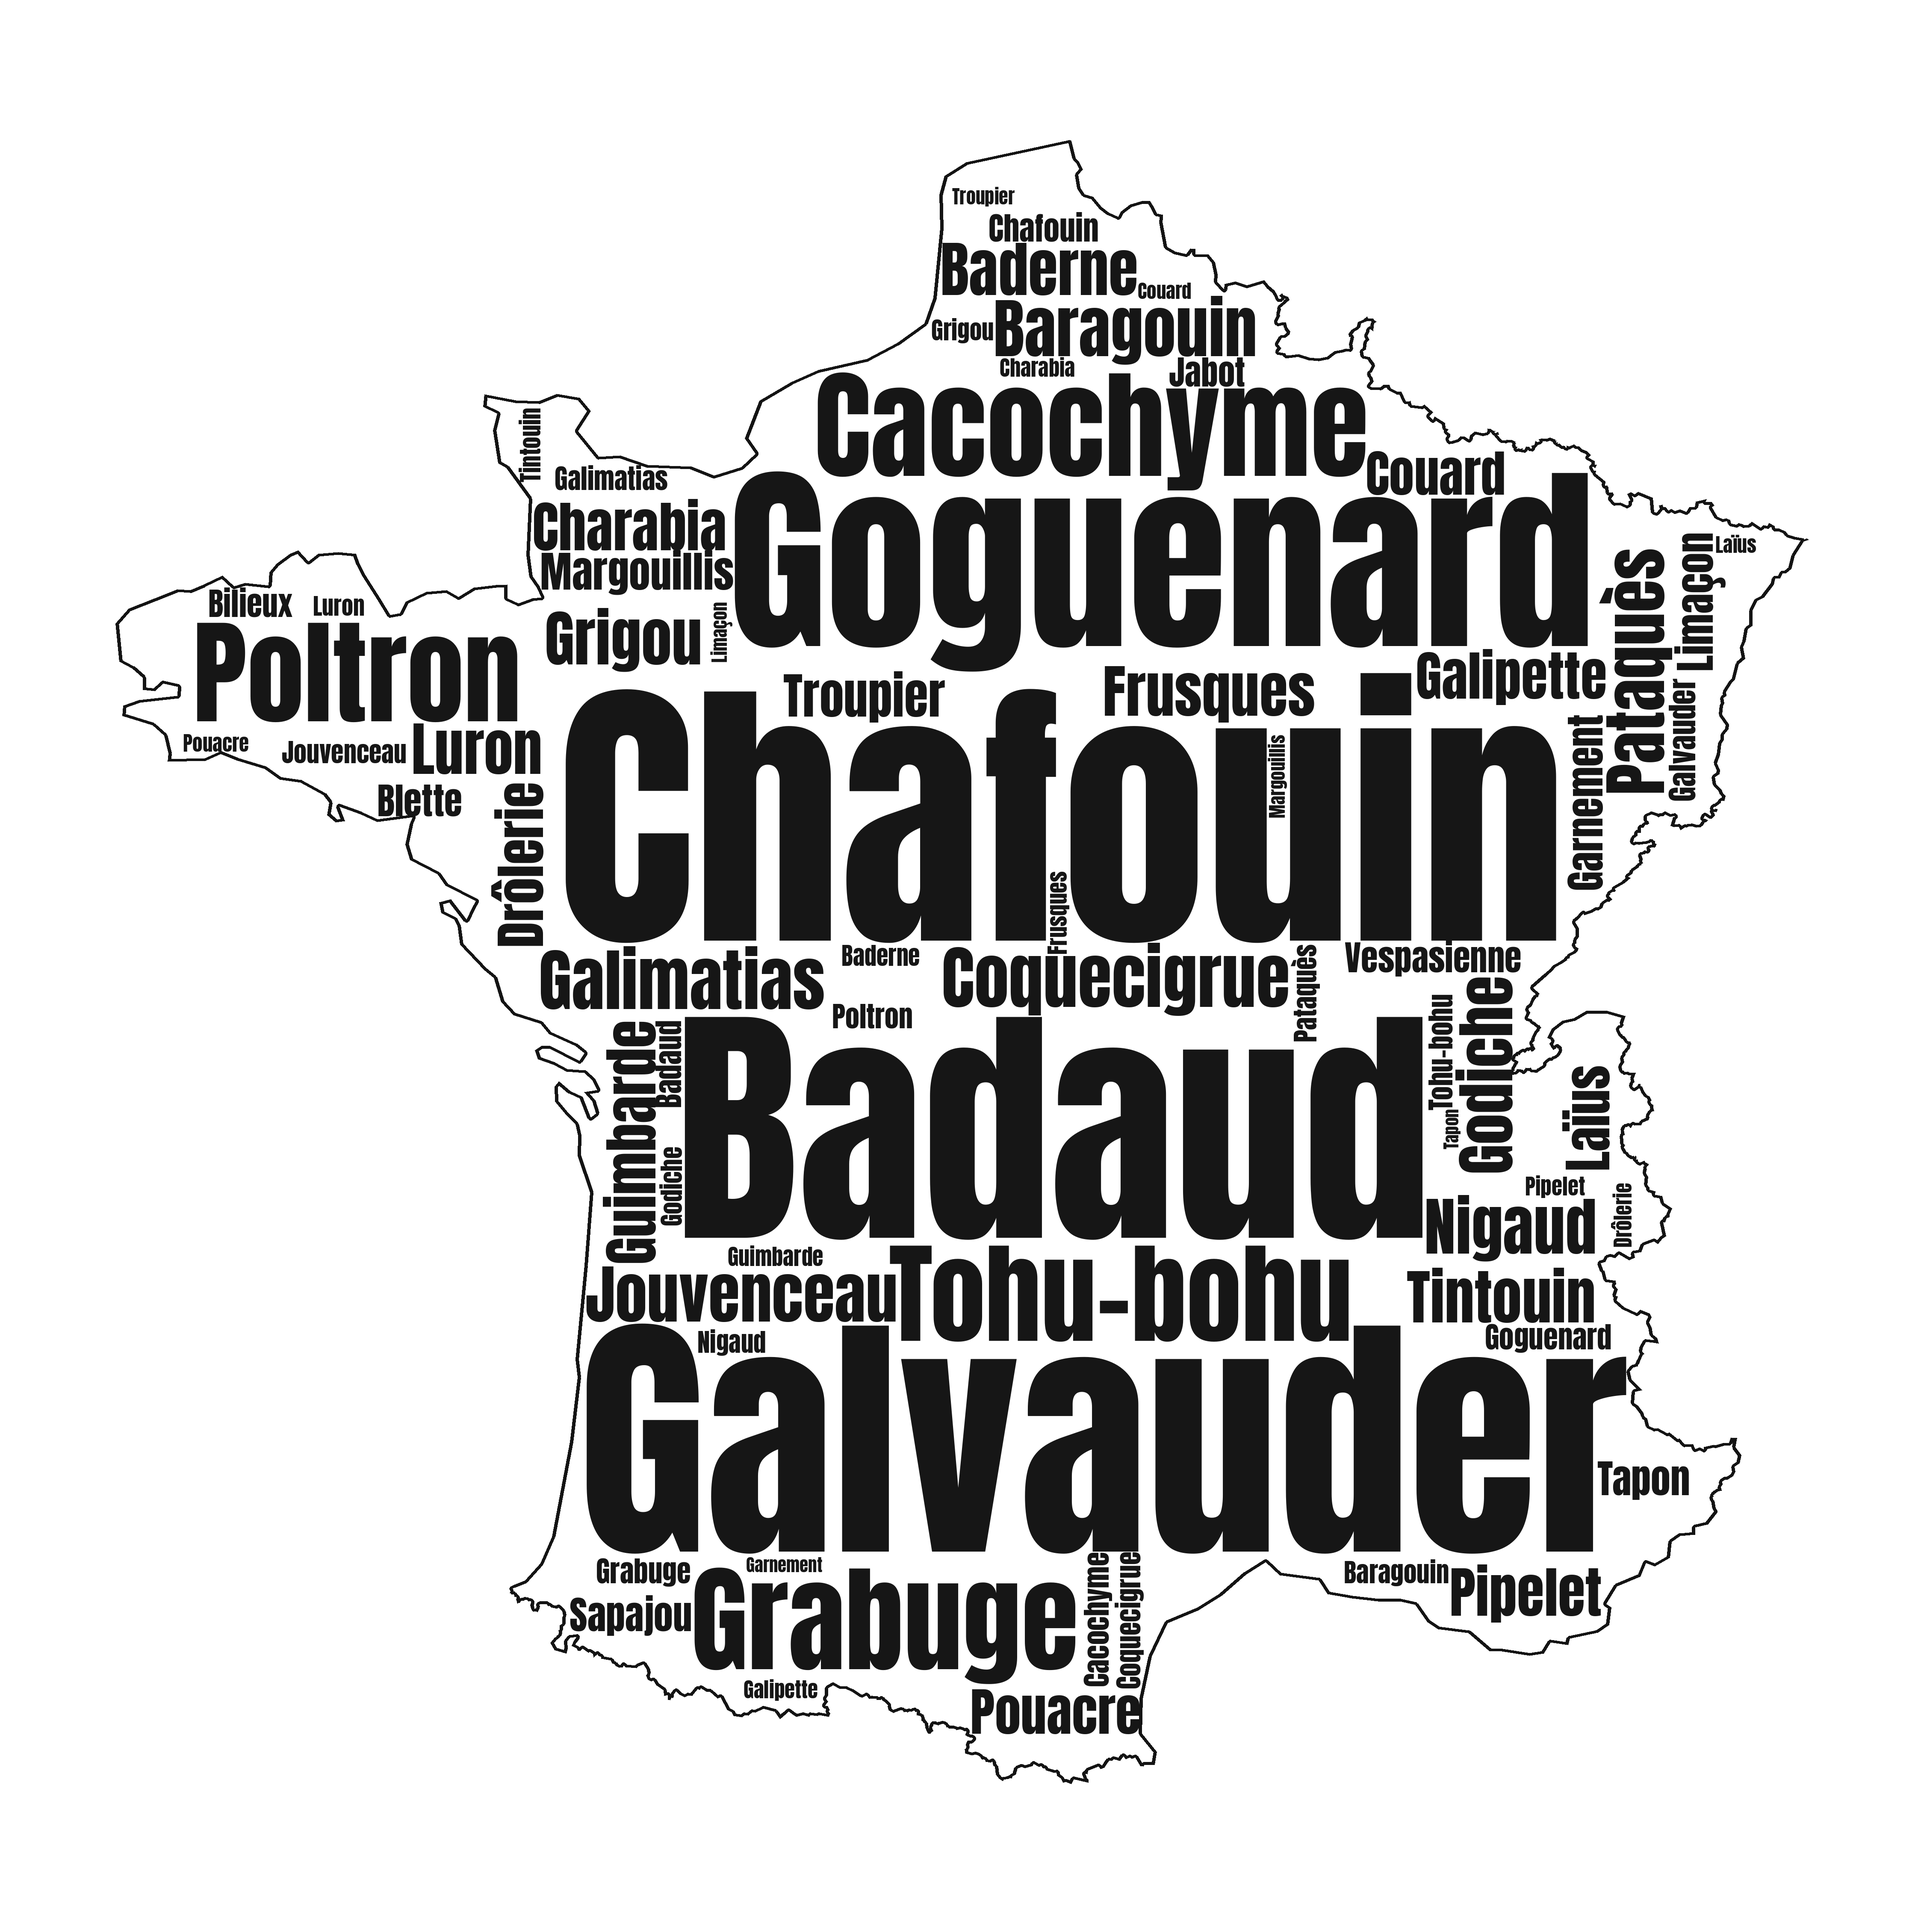
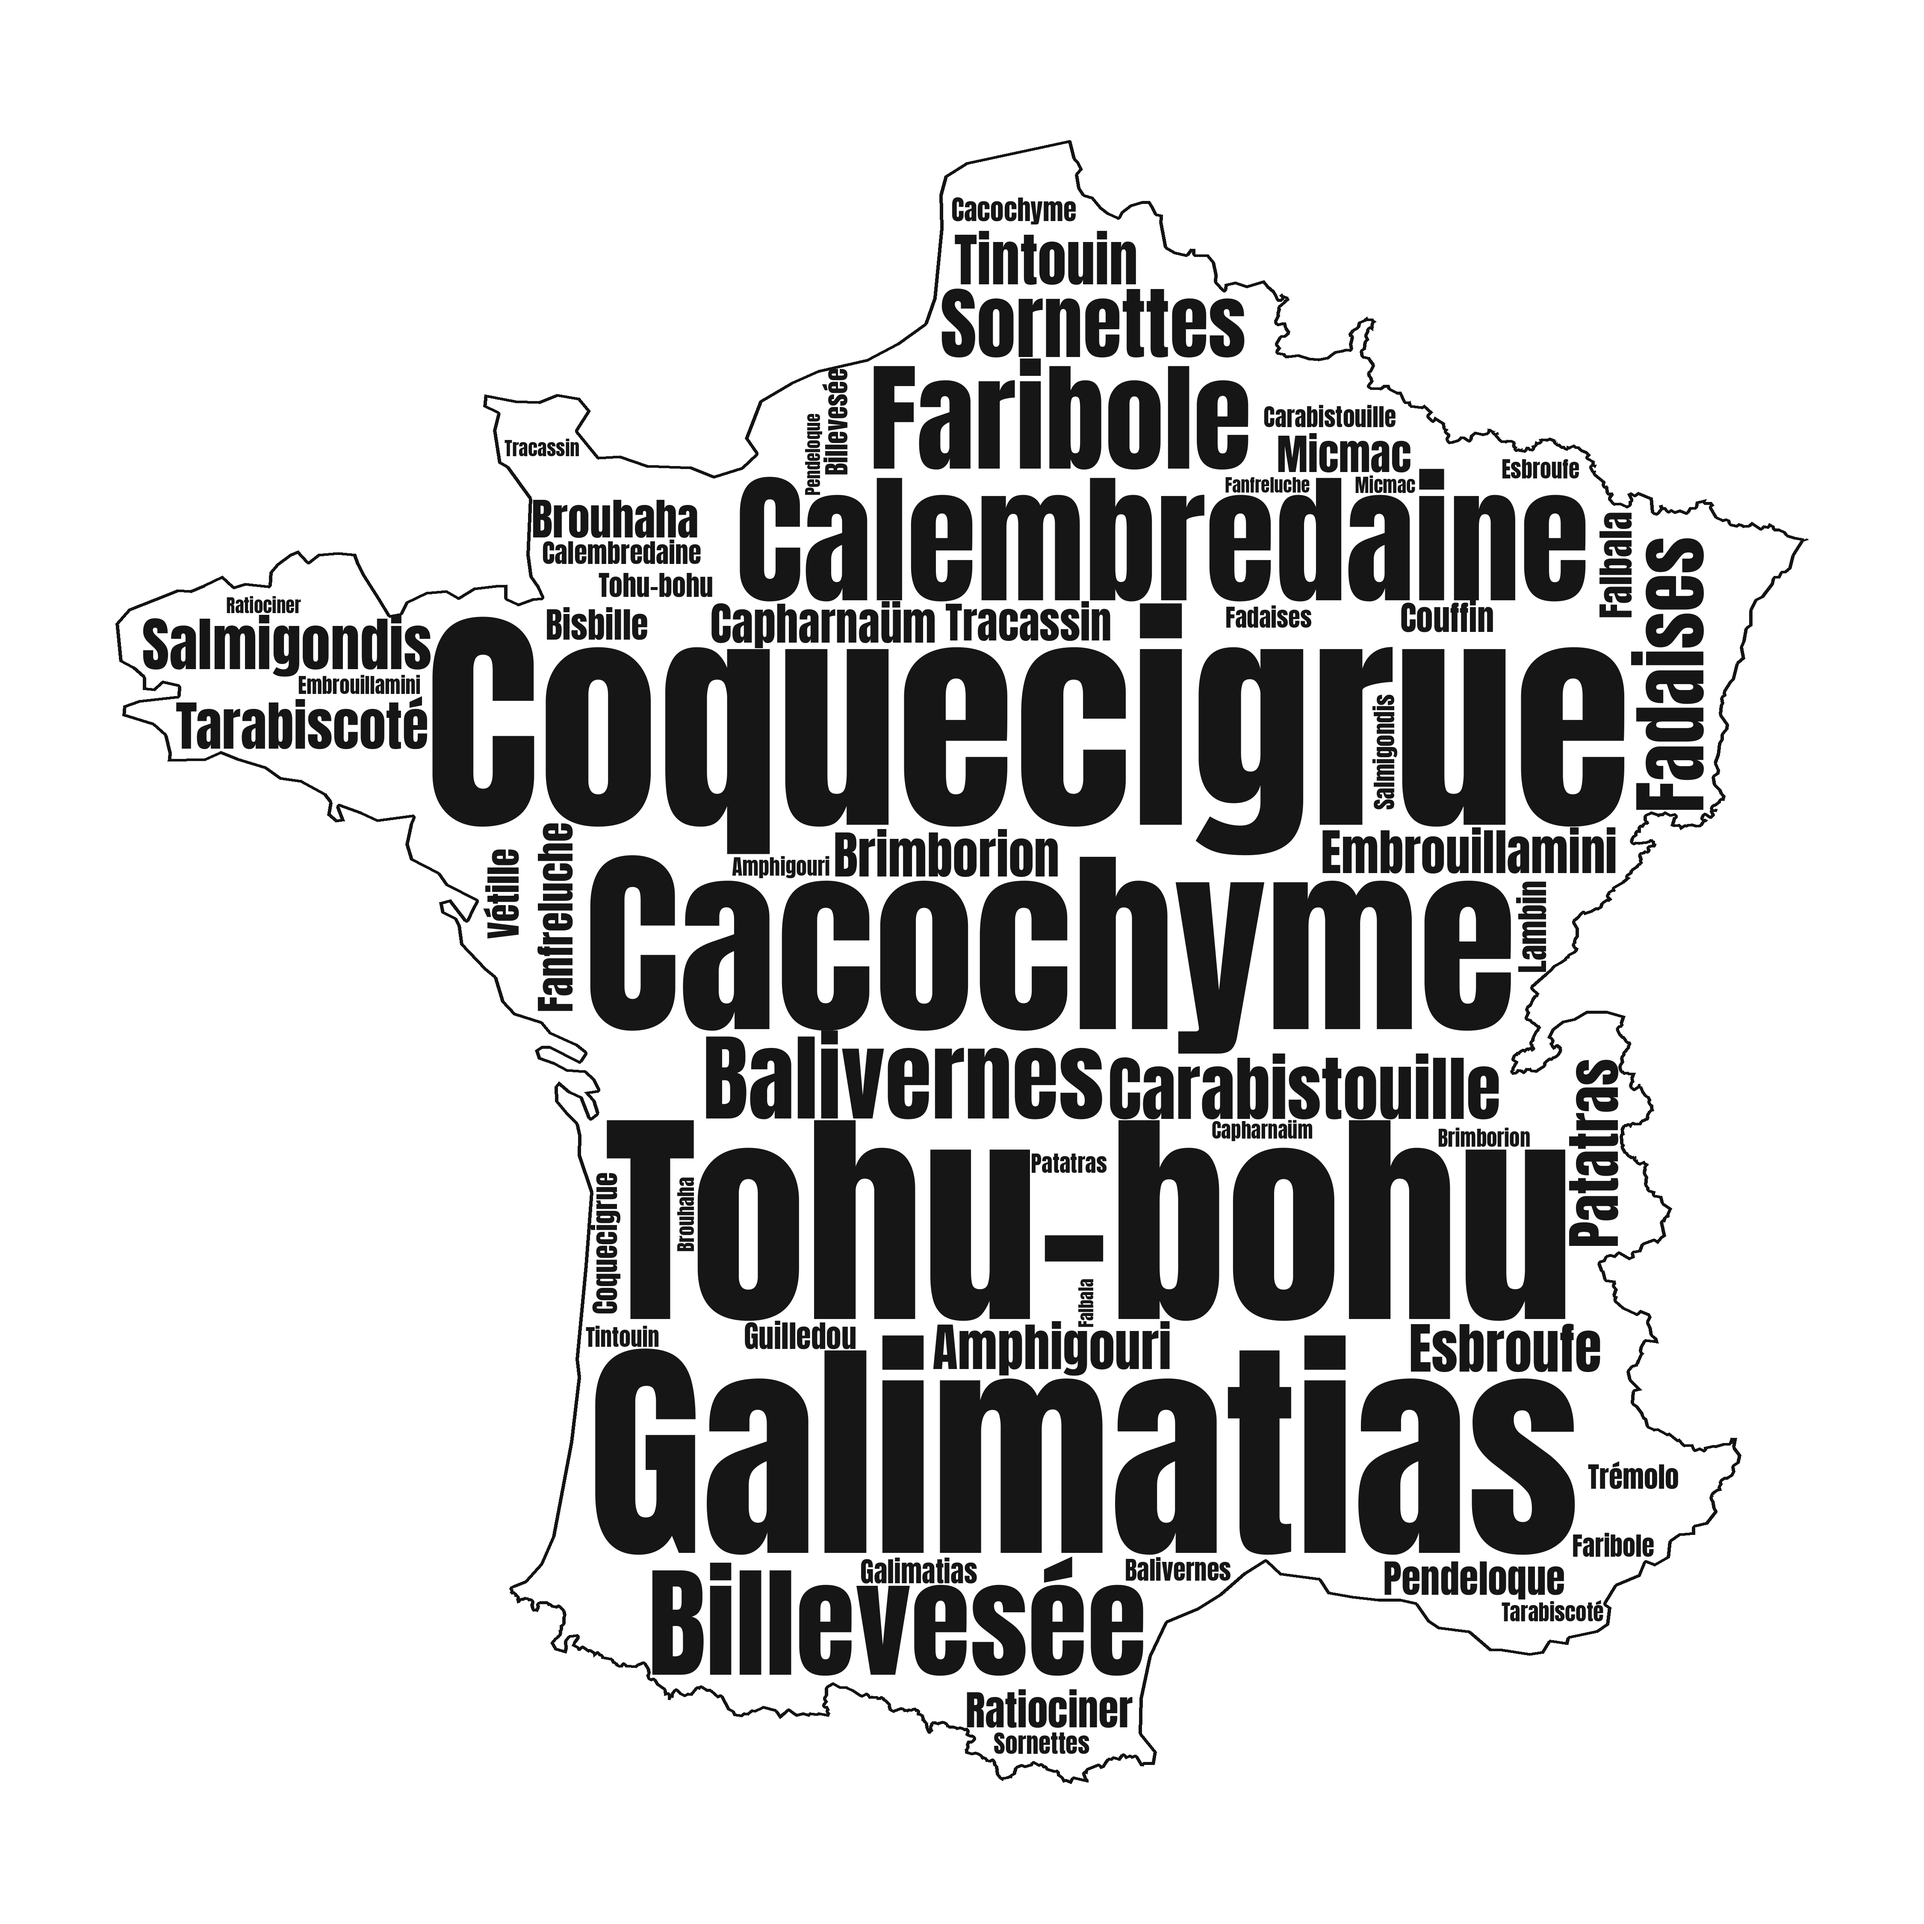
fix: silhouettes organiques (poisson/champignon) + désuets France nettoyés
- assets/shapes : silhouettes emoji Noto (OFL) — fish/tropfish/mushroom/guitar/
  paw/cat/dog/coffee ; load_mask gère le canal alpha (zone opaque = forme)
- poisson & champignon régénérés en vraies silhouettes (fini le géométrique)
- desuets_france : liste resserrée sur des pépites qui font sourire
  (Coquecigrue, Galimatias, Calembredaine, Tohu-bohu…), suppression de Galvauder
  et des verbes/quasi-insultes hors sujet
- tous les rendus restent en fond transparent (RGBA)

Claude-Session: https://claude.ai/code/session_011hU6yuR4dGRtyXL7mZFdwg

Changed region(s): [[0.0622, 0.0933, 0.9022, 0.9333]]

diff --git a/scripts/gen_wordcloud.py b/scripts/gen_wordcloud.py
@@ -254,8 +254,15 @@ def load_mask(spec, size=1600):
     if spec.lower().startswith("country:"):
         return country_mask(spec.split(":", 1)[1], size=size)
     if os.path.isfile(spec):
-        im = Image.open(spec).convert("L")
-        im = im.resize((size, size), Image.LANCZOS)
+        im = Image.open(spec)
+        has_alpha = im.mode in ("RGBA", "LA") or (
+            im.mode == "P" and "transparency" in im.info)
+        if has_alpha:
+            # silhouette = zone opaque (idéal pour les PNG emoji/icônes détourés)
+            alpha = im.convert("RGBA").split()[3].resize((size, size), Image.LANCZOS)
+            arr = np.array(alpha)
+            return np.where(arr > 40, 0, WHITE).astype(np.uint8)
+        im = im.convert("L").resize((size, size), Image.LANCZOS)
         arr = np.array(im)
         return np.where(arr < 128, 0, WHITE).astype(np.uint8)
     return builtin_mask(spec, size=size)
